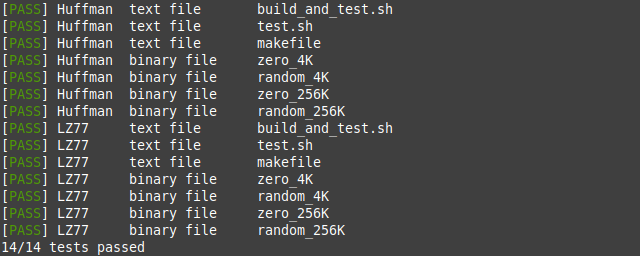
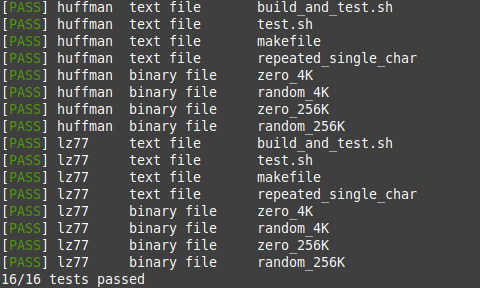
Added repeated_single_char test, fixed Huffman algorithm

Changed region(s): [[0.0, 0.0, 0.875, 1.0]]

diff --git a/src/Huffman.cpp b/src/Huffman.cpp
@@ -253,7 +253,7 @@ void Huffman::compress(std::string file_in, std::string file_out)
     }
 
     uint8_t number_of_symbols_with_codeword_length_highest = 31;
-    for (int8_t i = 31; i > 0; i--)
+    for (int8_t i = 31; i >= 0; i--)
     {
         if (number_of_symbols_with_codeword_length[i])
         {
